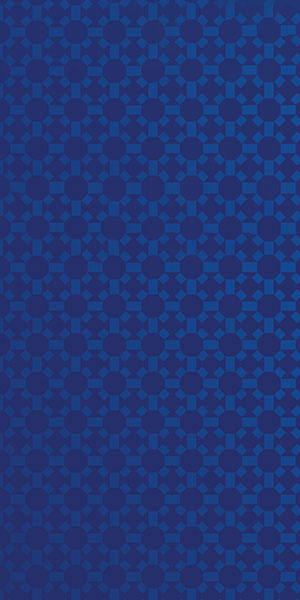
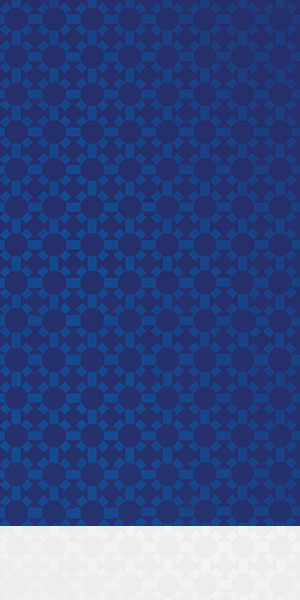
HMH review: 300x600, 320x600, 160x600 updated (new backgrounds, 320x600 RTB3 frame 2 copy up 8 px, refreshed thumbnails + sizes)
Claude-Session: https://claude.ai/code/session_01Jh7BG3ijCvCyzYafw8rB1H

diff --git a/client/HMH/Blood_Cancer_Cellular_Therapy/320x600/index.html b/client/HMH/Blood_Cancer_Cellular_Therapy/320x600/index.html
@@ -80,28 +80,28 @@
             <p class="copy">NJ’s most experienced blood cancer cellular therapy program.</p>
             <div class="frameWrap"><iframe src="rtb1/index.html" width="320" height="600" scrolling="no" title="320x600 banner RTB1"></iframe></div>
             <div class="controls"><button class="playpause" type="button" disabled>&#10074;&#10074; Pause</button><button class="replay" type="button">&#8635; Replay</button></div>
-            <p class="kb">66 KB</p>
+            <p class="kb">69 KB</p>
         </div>
         <div class="item">
             <h2>RTB2</h2>
             <p class="copy">Refer blood cancer patients to NJ’s #1 cancer center physicians.</p>
             <div class="frameWrap"><iframe src="rtb2/index.html" width="320" height="600" scrolling="no" title="320x600 banner RTB2"></iframe></div>
             <div class="controls"><button class="playpause" type="button" disabled>&#10074;&#10074; Pause</button><button class="replay" type="button">&#8635; Replay</button></div>
-            <p class="kb">72 KB</p>
+            <p class="kb">75 KB</p>
         </div>
         <div class="item">
             <h2>RTB3</h2>
             <p class="copy">NJ’s best blood cancer outcomes for donor-recipient stem cell transplants.</p>
             <div class="frameWrap"><iframe src="rtb3/index.html" width="320" height="600" scrolling="no" title="320x600 banner RTB3"></iframe></div>
             <div class="controls"><button class="playpause" type="button" disabled>&#10074;&#10074; Pause</button><button class="replay" type="button">&#8635; Replay</button></div>
-            <p class="kb">63 KB</p>
+            <p class="kb">69 KB</p>
         </div>
         <div class="item">
             <h2>RTB3 Pic</h2>
             <p class="copy">NJ’s best blood cancer outcomes for donor-recipient stem cell transplants. (with photo)</p>
             <div class="frameWrap"><iframe src="rtb3_pic/index.html" width="320" height="600" scrolling="no" title="320x600 banner RTB3 Pic"></iframe></div>
             <div class="controls"><button class="playpause" type="button" disabled>&#10074;&#10074; Pause</button><button class="replay" type="button">&#8635; Replay</button></div>
-            <p class="kb">94 KB</p>
+            <p class="kb">98 KB</p>
         </div>
     </div>
 

diff --git a/client/HMH/Blood_Cancer_Cellular_Therapy/300x600/index.html b/client/HMH/Blood_Cancer_Cellular_Therapy/300x600/index.html
@@ -70,7 +70,7 @@
     <header>
         <div class="logoPlate"><img src="../assets/logo_hmh.svg" alt="Hackensack Meridian Health"></div>
         <h1>Blood Cancer Cellular Therapy</h1>
-        <p class="sub">Banner Review &middot; HTML5 &middot; 300x600 &middot; <b>Updated Nov 20, 2026</b></p>
+        <p class="sub">Banner Review &middot; HTML5 &middot; 300x600 &middot; <b>Updated Nov 21, 2026</b></p>
     </header>
     <p class="nav"><a class="back" href="../index.html">&larr; Back</a></p>
 
@@ -80,21 +80,21 @@
             <p class="copy">NJ’s most experienced blood cancer cellular therapy program.</p>
             <div class="frameWrap"><iframe src="rtb1/index.html" width="300" height="600" scrolling="no" title="300x600 banner RTB1"></iframe></div>
             <div class="controls"><button class="playpause" type="button" disabled>&#10074;&#10074; Pause</button><button class="replay" type="button">&#8635; Replay</button></div>
-            <p class="kb">73 KB</p>
+            <p class="kb">79 KB</p>
         </div>
         <div class="item">
             <h2>RTB2</h2>
             <p class="copy">Refer blood cancer patients to NJ’s #1 cancer center physicians.</p>
             <div class="frameWrap"><iframe src="rtb2/index.html" width="300" height="600" scrolling="no" title="300x600 banner RTB2"></iframe></div>
             <div class="controls"><button class="playpause" type="button" disabled>&#10074;&#10074; Pause</button><button class="replay" type="button">&#8635; Replay</button></div>
-            <p class="kb">79 KB</p>
+            <p class="kb">85 KB</p>
         </div>
         <div class="item">
             <h2>RTB3</h2>
             <p class="copy">NJ’s best blood cancer outcomes for donor-recipient stem cell transplants.</p>
             <div class="frameWrap"><iframe src="rtb3/index.html" width="300" height="600" scrolling="no" title="300x600 banner RTB3"></iframe></div>
             <div class="controls"><button class="playpause" type="button" disabled>&#10074;&#10074; Pause</button><button class="replay" type="button">&#8635; Replay</button></div>
-            <p class="kb">73 KB</p>
+            <p class="kb">80 KB</p>
         </div>
         <div class="item">
             <h2>RTB3 Pic</h2>

diff --git a/client/HMH/Blood_Cancer_Cellular_Therapy/160x600/index.html b/client/HMH/Blood_Cancer_Cellular_Therapy/160x600/index.html
@@ -70,7 +70,7 @@
     <header>
         <div class="logoPlate"><img src="../assets/logo_hmh.svg" alt="Hackensack Meridian Health"></div>
         <h1>Blood Cancer Cellular Therapy</h1>
-        <p class="sub">Banner Review &middot; HTML5 &middot; 160x600 &middot; <b>Updated Nov 20, 2026</b></p>
+        <p class="sub">Banner Review &middot; HTML5 &middot; 160x600 &middot; <b>Updated Nov 21, 2026</b></p>
     </header>
     <p class="nav"><a class="back" href="../index.html">&larr; Back</a></p>
 
@@ -80,14 +80,14 @@
             <p class="copy">NJ’s best blood cancer outcomes for donor-recipient stem cell transplants.</p>
             <div class="frameWrap"><iframe src="rtb3/index.html" width="160" height="600" scrolling="no" title="160x600 banner RTB3"></iframe></div>
             <div class="controls"><button class="playpause" type="button" disabled>&#10074;&#10074; Pause</button><button class="replay" type="button">&#8635; Replay</button></div>
-            <p class="kb">49 KB</p>
+            <p class="kb">66 KB</p>
         </div>
         <div class="item">
             <h2>RTB3 Pic</h2>
             <p class="copy">NJ’s best blood cancer outcomes for donor-recipient stem cell transplants. (with photo)</p>
             <div class="frameWrap"><iframe src="rtb3_pic/index.html" width="160" height="600" scrolling="no" title="160x600 banner RTB3 Pic"></iframe></div>
             <div class="controls"><button class="playpause" type="button" disabled>&#10074;&#10074; Pause</button><button class="replay" type="button">&#8635; Replay</button></div>
-            <p class="kb">83 KB</p>
+            <p class="kb">94 KB</p>
         </div>
     </div>
 

diff --git a/client/HMH/Blood_Cancer_Cellular_Therapy/160x600/rtb3_pic/initial.js b/client/HMH/Blood_Cancer_Cellular_Therapy/160x600/rtb3_pic/initial.js
@@ -38,7 +38,7 @@ function politeInit(){
             /************** Modify VARIABLES ********************/
             colors.dark = "#0f1938";
             colors.white = "#ffffff";
-            var CTA_OVER_SCALE = 1.08;   // rollover scale amount
+            var CTA_OVER_SCALE = 1.06;   // rollover scale amount
 
             // Frame positions: how far the copy slides up (px) to reach each frame
             // Photo framing (one photo: scales down + slides) and panel height per frame
@@ -166,10 +166,10 @@ function politeInit(){
 /********************  EVENTS  ********************/
         // Rollover: CTA scales up a little, scales back down on rolloff
         bgexit.addEventListener('mouseover', (e) => {
-            gsap.to(cta, {duration:0.25, scale:CTA_OVER_SCALE, ease:"power2.out", overwrite:"auto"});
+            gsap.to(cta, {duration:0.9, scale:CTA_OVER_SCALE, ease:"power4.out", overwrite:"auto"});
         });
         bgexit.addEventListener('mouseout', (e) => {
-            gsap.to(cta, {duration:0.25, scale:1, ease:"power2.out", overwrite:"auto"});
+            gsap.to(cta, {duration:0.45, scale:1, ease:"power4.out", overwrite:"auto"});
         });
 
         let type = 'click';

diff --git a/client/HMH/Blood_Cancer_Cellular_Therapy/160x600/rtb3/initial.js b/client/HMH/Blood_Cancer_Cellular_Therapy/160x600/rtb3/initial.js
@@ -36,7 +36,7 @@ function politeInit(){
             /************** Modify VARIABLES ********************/
             colors.dark = "#0f1938";
             colors.white = "#ffffff";
-            var CTA_OVER_SCALE = 1.08;   // rollover scale amount
+            var CTA_OVER_SCALE = 1.06;   // rollover scale amount
 
             // Frame positions: how far the copy slides up (px) to reach each frame
             var F2_Y = -57,
@@ -129,10 +129,10 @@ function politeInit(){
 /********************  EVENTS  ********************/
         // Rollover: CTA scales up a little, scales back down on rolloff
         bgexit.addEventListener('mouseover', (e) => {
-            gsap.to(cta, {duration:0.25, scale:CTA_OVER_SCALE, ease:"power2.out", overwrite:"auto"});
+            gsap.to(cta, {duration:0.9, scale:CTA_OVER_SCALE, ease:"power4.out", overwrite:"auto"});
         });
         bgexit.addEventListener('mouseout', (e) => {
-            gsap.to(cta, {duration:0.25, scale:1, ease:"power2.out", overwrite:"auto"});
+            gsap.to(cta, {duration:0.45, scale:1, ease:"power4.out", overwrite:"auto"});
         });
 
         let type = 'click';

diff --git a/client/HMH/Blood_Cancer_Cellular_Therapy/320x600/rtb3/initial.js b/client/HMH/Blood_Cancer_Cellular_Therapy/320x600/rtb3/initial.js
@@ -41,7 +41,7 @@ function politeInit(){
             // Frame positions: how far the copy slides up (px) to reach each frame
             // (CSS tops are the Frame 2 positions; the group starts F1_Y lower in Frame 1 and ends F3_Y higher in Frame 3)
             var F1_Y = 53,
-                F2_Y = 0,
+                F2_Y = -8,
                 F3_Y = -46,
                 EASE = "power3.inOut";
 /***************** //end of VARIABLES  *****************/
